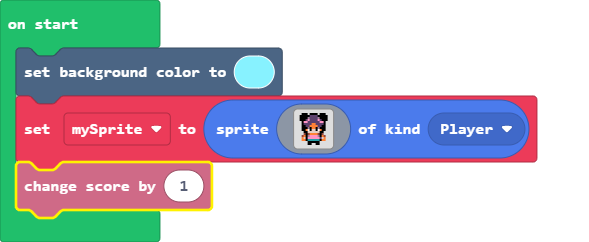
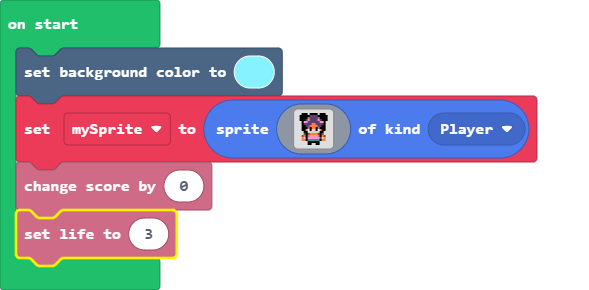
Puse vidas

diff --git a/main.ts b/main.ts
@@ -17,4 +17,5 @@ let mySprite = sprites.create(img`
     . . . . f f f f f f . . . . 
     . . . . f f . . f f . . . . 
     `, SpriteKind.Player)
-info.changeScoreBy(1)
+info.changeScoreBy(0)
+info.setLife(3)
